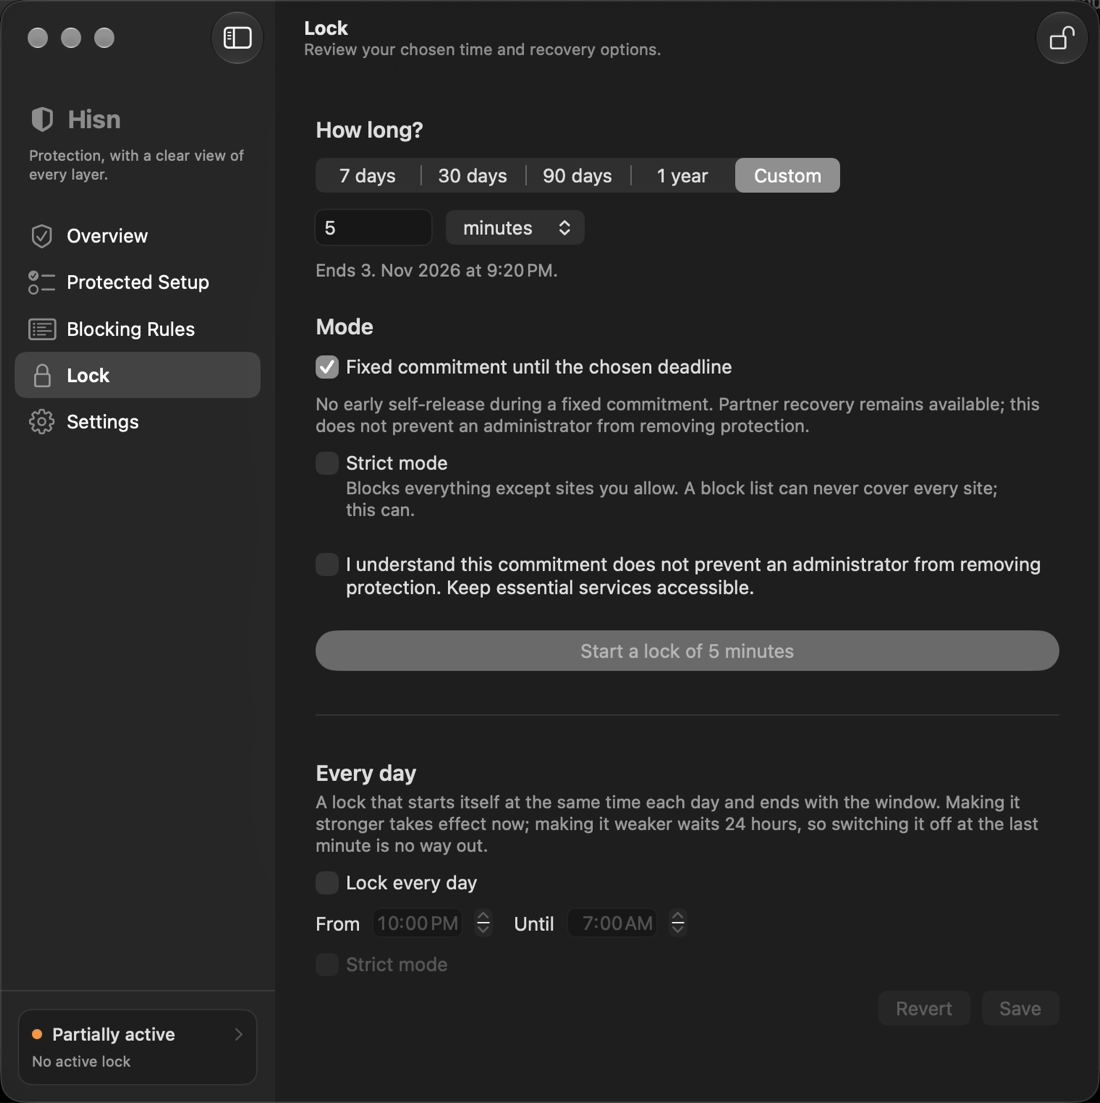
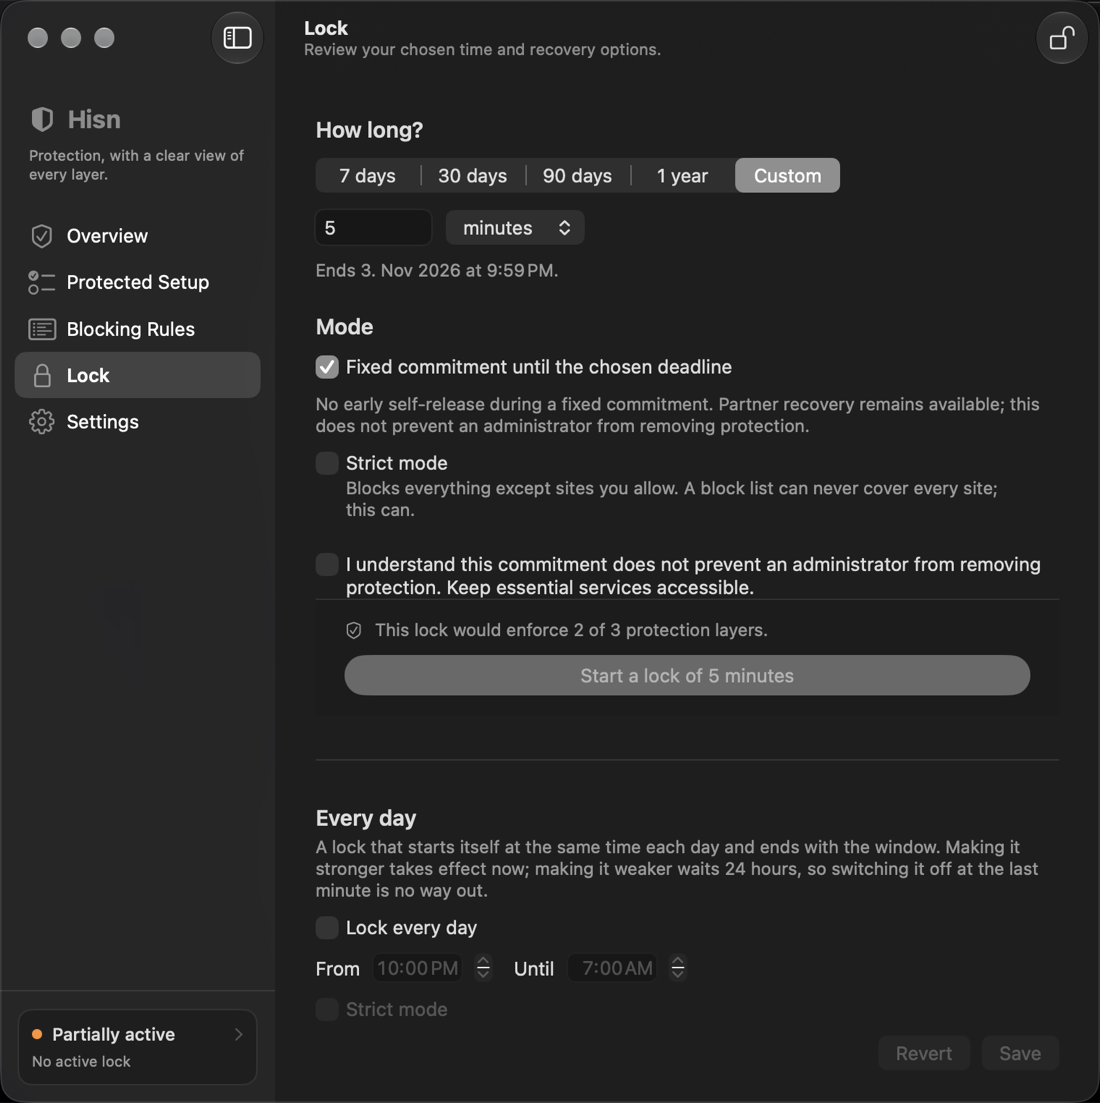
Mac 1.1.10: the lock action carries its consequence
The Start button sat at the bottom of a column under two warnings and the
acknowledgement, so the last thing read before committing was the least
important line.

- The action is now one panel: a live line derived from the same status the
  Overview shows ('This lock would enforce 2 of 3 protection layers.', or the
  honest 'it would run but block nothing' warning), then the button.
- One new string with Arabic (601 total).

The panel sits at the end of the setup section, not pinned to the window edge:
pinning needs LockDraft lifted into the window chrome, which is a separate
change and is recorded as not done.

Build 20; 526 tests and localization pass; after-lock capture refreshed.

diff --git a/macos/Hisn/ContentView.swift b/macos/Hisn/ContentView.swift
@@ -1282,11 +1282,12 @@ private struct LockPage: View {
 
     /// Would a lock started now block anything? Read from the same status the
     /// Overview shows, so the two can never disagree.
-    private var enforcingAnything: Bool {
+    private var protectionStatus: ProtectionStatus {
         ProtectionStatus(ProtectionEvidence.current(filter: filter.availability,
-                                                      authority: FilterSync.shared.status))
-            .isEnforcingAnything
+                                                    authority: FilterSync.shared.status))
     }
+
+    private var enforcingAnything: Bool { protectionStatus.isEnforcingAnything }
 
     /// The length the button would start, or nil when there is nothing valid to
     /// start. Nil disables the button rather than substituting a nearby legal
@@ -1397,22 +1398,6 @@ private struct LockPage: View {
                 }
             }
 
-            // Just-in-time, at the point of decision rather than as a permanent
-            // banner up top. Someone about to commit to a lock that enforces
-            // nothing is the one moment this warning earns its alarm — and the
-            // confirmation dialog repeats it, so it cannot be clicked past by
-            // reflex.
-            if !enforcingAnything {
-                Label("""
-                      Nothing is set up to enforce a lock yet — it would run \
-                      but block nothing. Finish setup on the Overview page first.
-                      """,
-                      systemImage: "exclamationmark.triangle.fill")
-                    .font(.callout)
-                    .foregroundStyle(.orange)
-                    .fixedSize(horizontal: false, vertical: true)
-            }
-
             if authority?.dailyUserIsAdmin == true {
                 Label("This account is still an administrator. It can remove Hisn during the lock. Complete the guardian split in Setup first.",
                       systemImage: "exclamationmark.triangle.fill")
@@ -1424,6 +1409,39 @@ private struct LockPage: View {
             Toggle("I understand this commitment does not prevent an administrator from removing protection. Keep essential services accessible.",
                    isOn: $understandsLimits)
 
+        }
+        // The action and its consequence form one panel at the end of the
+        // setup section, above the daily schedule, instead of a button under
+        // two warnings and the acknowledgement. Pinning this to the window's
+        // bottom edge needs the draft lifted into the window chrome; until
+        // then it stays in the page.
+        .safeAreaInset(edge: .bottom, spacing: 0) { startBar }
+    }
+
+    /// The action panel: one line saying what pressing the button would
+    /// enforce, then the button. The line is derived from the same status the
+    /// Overview shows, so the promise and the lock cannot disagree.
+    private var startBar: some View {
+        VStack(alignment: .leading, spacing: 10) {
+            if enforcingAnything {
+                Label(String(localized: "This lock would enforce \(protectionStatus.layers.filter(\.ok).count) of \(protectionStatus.layers.count) protection layers."),
+                      systemImage: "checkmark.shield")
+                    .font(.callout)
+                    .foregroundStyle(.secondary)
+                    .fixedSize(horizontal: false, vertical: true)
+            } else {
+                // Just-in-time, at the point of decision. Someone about to
+                // commit to a lock that enforces nothing is the one moment
+                // this warning earns its alarm.
+                Label("""
+                      Nothing is set up to enforce a lock yet — it would run \
+                      but block nothing. Finish setup on the Overview page first.
+                      """,
+                      systemImage: "exclamationmark.triangle.fill")
+                    .font(.callout)
+                    .foregroundStyle(.orange)
+                    .fixedSize(horizontal: false, vertical: true)
+            }
             Button {
                 showConfirm = true
             } label: {
@@ -1446,6 +1464,12 @@ private struct LockPage: View {
                 Text(confirmMessage)
             }
         }
+        .padding(.horizontal, 20)
+        .padding(.vertical, 14)
+        .frame(maxWidth: 840, alignment: .leading)
+        .frame(maxWidth: .infinity)
+        .background(.bar)
+        .overlay(alignment: .top) { Divider() }
     }
 
     // MARK: Locked

diff --git a/macos/generate_xcodeproj.py b/macos/generate_xcodeproj.py
@@ -384,7 +384,7 @@ def main() -> int:
     app_settings = {
         "ASSETCATALOG_COMPILER_APPICON_NAME": "AppIcon",
         "CODE_SIGN_ENTITLEMENTS": "Hisn/Hisn.entitlements",
-        "CURRENT_PROJECT_VERSION": "19",
+        "CURRENT_PROJECT_VERSION": "20",
         "MARKETING_VERSION": "1.1.10",
         "ENABLE_HARDENED_RUNTIME": "YES",
         "INFOPLIST_FILE": "Hisn/Info.plist",
@@ -396,7 +396,7 @@ def main() -> int:
     }
     filter_settings = {
         "CODE_SIGN_ENTITLEMENTS": "HisnFilter/HisnFilter.entitlements",
-        "CURRENT_PROJECT_VERSION": "19",
+        "CURRENT_PROJECT_VERSION": "20",
         "MARKETING_VERSION": "1.1.10",
         "ENABLE_HARDENED_RUNTIME": "YES",
         "INFOPLIST_FILE": "HisnFilter/Info.plist",
@@ -407,7 +407,7 @@ def main() -> int:
     }
     bridge_settings = {
         "CODE_SIGN_ENTITLEMENTS": "HisnBridge/HisnBridge.entitlements",
-        "CURRENT_PROJECT_VERSION": "19",
+        "CURRENT_PROJECT_VERSION": "20",
         "MARKETING_VERSION": "1.1.10",
         "ENABLE_HARDENED_RUNTIME": "YES",
         "GENERATE_INFOPLIST_FILE": "YES",

diff --git a/docs/MACOS_1.1.10.md b/docs/MACOS_1.1.10.md
@@ -49,14 +49,14 @@ layout evidence, not the accessibility tree.
 | Overview | commitment card below the setup card | commitment beside the protection card |
 | Overview | full readiness card repeating the missing-layer message | one row: headline, summary, step count, chevron → Setup |
 | Setup | readiness card + "Protected Setup" section with a second verdict | one card: readiness, progress bar, "2 of 12 steps done", next step |
-| Lock | fixed-commitment paragraph twice, once stale | stated once, follows the mode toggle; duplicate card removed |
+| Lock | fixed-commitment paragraph twice, once stale | stated once, follows the mode toggle; duplicate card removed; one action panel with a live consequence line |
 | Blocking Rules | guide, then lists | lists, then guide |
 | Your sites | two large text boxes, domains only visible as text | per-domain rows with Remove, an inline add field, a chip strip of what is blocked, and bulk paste in a disclosure |
 | Settings | a flat column of headings and dividers, checkbox toggles | one card per group, with trailing switches |
 
 No rule, lock, filter, browser-bridge or protection-layer behaviour changed. Two
 user-facing strings were added (`Add`, `Paste a list`), both with Arabic; the
-catalog is 600 strings. Xcode marked five strings that only the removed blocks
+catalog is 601 strings. Xcode marked five strings that only the removed blocks
 used as `stale` in the catalog; their Arabic is kept. The add field's
 placeholder is a verbatim `example.com` held in a String property, so it does
 not enter the catalog as translatable copy.
@@ -66,7 +66,7 @@ not enter the catalog as translatable copy.
 | File | Change |
 | --- | --- |
 | `macos/Hisn/ContentView.swift` | page chrome, Overview order, Setup card, Lock mode text, Rules order, row-based site lists |
-| `macos/Hisn.xcodeproj/project.pbxproj`, `macos/generate_xcodeproj.py` | 1.1.10, build 19 |
+| `macos/Hisn.xcodeproj/project.pbxproj`, `macos/generate_xcodeproj.py` | 1.1.10, build 20 |
 | `macos/Hisn/Localizable.xcstrings` | two new strings with Arabic; five marked stale |
 | `design/macos-ui-1.1.10/` | before/after captures and their README |
 
@@ -78,6 +78,9 @@ not enter the catalog as translatable copy.
   captured: 1.1.9 (before) and 1.1.10 (after), same window width, dark mode.
 - The captures are real windows, not SwiftUI renders: they show this Mac's
   actual state (ad-hoc filter off, hosts list on, extension connected).
+- **Not done:** the Lock action panel sits at the end of the setup section, not
+  pinned to the window's bottom edge. Pinning needs the draft state lifted out of
+  `LockPage` into the window chrome, which is a larger change than this pass.
 
 ## Limits
 

diff --git a/CHANGELOG.md b/CHANGELOG.md
@@ -24,7 +24,9 @@ bump without an entry here is an unfinished release.
 - **Lock states what the chosen mode means, once.** The fixed-commitment
   paragraph follows the toggle — before, turning the fixed commitment off left
   the paragraph on screen — and the duplicate "Your chosen commitment" card is
-  removed.
+  removed. The action now sits in one panel at the end of the setup section with
+  a live consequence line ("This lock would enforce 2 of 3 protection layers."),
+  below the options rather than under two warnings.
 - **Blocking Rules leads with the lists.** The editable site and app lists come
   first; the browser guide follows them instead of pushing every control below
   the fold.
@@ -47,7 +49,7 @@ bump without an entry here is an unfinished release.
 - Design research: REA 6.4.0 `inspect-artifact` and
   `capture-native-ui-scenario` on the Screen Zen 2.0.0 (build 63) window,
   observation only. Captures in `design/macos-ui-1.1.10/`.
-- Version 1.1.10, build 19. Unsigned and unnotarized; no physical-Mac,
+- Version 1.1.10, build 20. Unsigned and unnotarized; no physical-Mac,
   VoiceOver or signed-build result is claimed.
 
 ## Android 1.1.0 — 2026-11-03

diff --git a/docs/1.0_READINESS.md b/docs/1.0_READINESS.md
@@ -9,7 +9,7 @@ device proof**; the second list is not something a repository can complete.
 | Surface | Version | Build | Distribution state |
 | --- | --- | --- | --- |
 | Browser extension | 1.5.0 | — | Unpacked; store-ready zip, no listing |
-| Mac | 1.1.10 | 19 | Unsigned/unnotarized; installed in place on the owner's Mac, filter ad-hoc |
+| Mac | 1.1.10 | 20 | Unsigned/unnotarized; installed in place on the owner's Mac, filter ad-hoc |
 | iPhone & iPad | 1.4.0 | 8 | Simulator-tested; no team, entitlement or device |
 | Android | 1.1.0 | 27 | Signed direct APK published on GitHub and updated in place on the owner's phone; Play AAB built, not uploaded; no physical device-owner run |
 | Seed / lists | Seed v5 (2026-10-30); lists v6 (2026-11-03) | — | Signed seed; signed v6 list generation published and HTTP 200 |

diff --git a/docs/VERSIONS.md b/docs/VERSIONS.md
@@ -11,7 +11,7 @@ signed artifact has shipped. The state column is the honest release state.
 | Platform | Version | Build | State | Source of truth |
 | --- | --- | --- | --- | --- |
 | Browser extension (Chromium) | 1.5.0 | — | development · unpacked, no store listing | `extension/manifest.json` |
-| Mac | 1.1.10 | 19 | development · unsigned, needs Developer ID and notarization | `macos/Hisn.xcodeproj/project.pbxproj` |
+| Mac | 1.1.10 | 20 | development · unsigned, needs Developer ID and notarization | `macos/Hisn.xcodeproj/project.pbxproj` |
 | iPhone & iPad | 1.4.0 | 8 | development · no Apple team, Family Controls entitlement or test device | `ios/HisnMobile.xcodeproj/project.pbxproj` |
 | Android | 1.1.0 | 27 | released · signed direct APK on GitHub; Play AAB not uploaded | `android/app/build.gradle` |
 

diff --git a/design/macos-ui-1.1.10/README.md b/design/macos-ui-1.1.10/README.md
@@ -15,7 +15,7 @@ user study, a screen-reader audit or a layout snapshot test.
 | `before-settings.png` | 1.1.9: a flat column of headings and dividers |
 | `after-settings.png` | 1.1.10: one card per settings group, switches on the right |
 | `before-lock.png` | 1.1.9: the fixed-commitment paragraph stated twice |
-| `after-lock.png` | 1.1.10: stated once, following the mode toggle |
+| `after-lock.png` | 1.1.10: stated once; one action panel with a live consequence line |
 
 The captures show this Mac's real state — ad-hoc build (system filter off),
 hosts-file blocklist on, browser extension connected — not a mocked healthy
